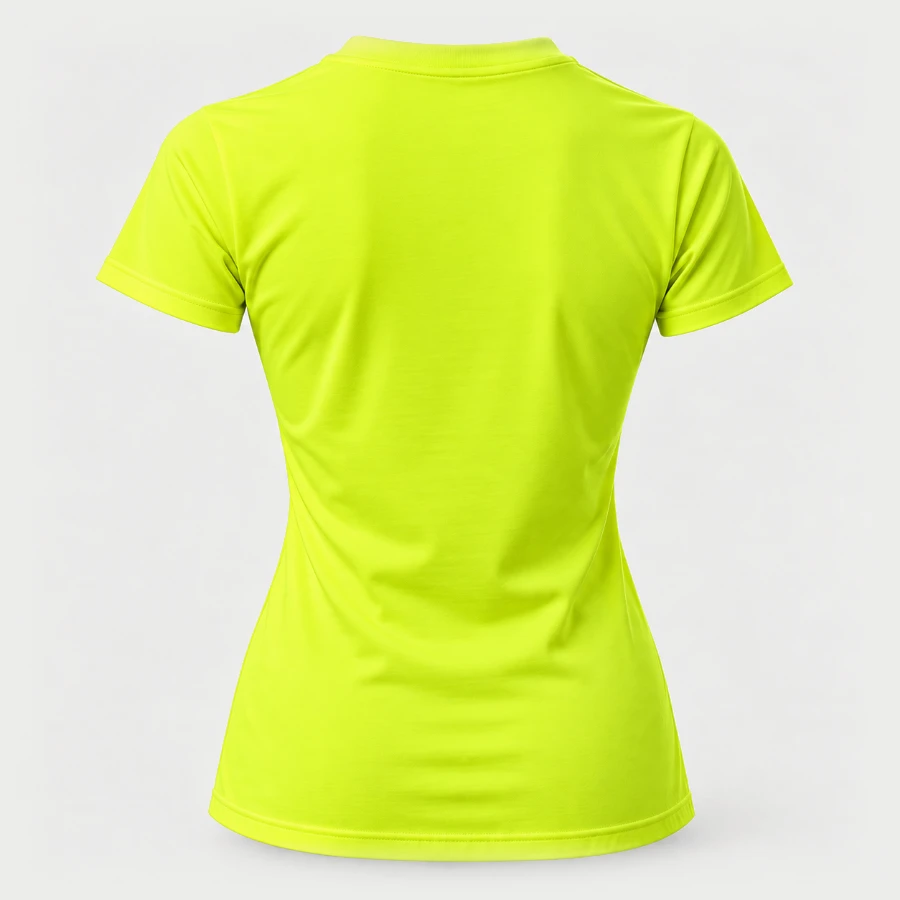
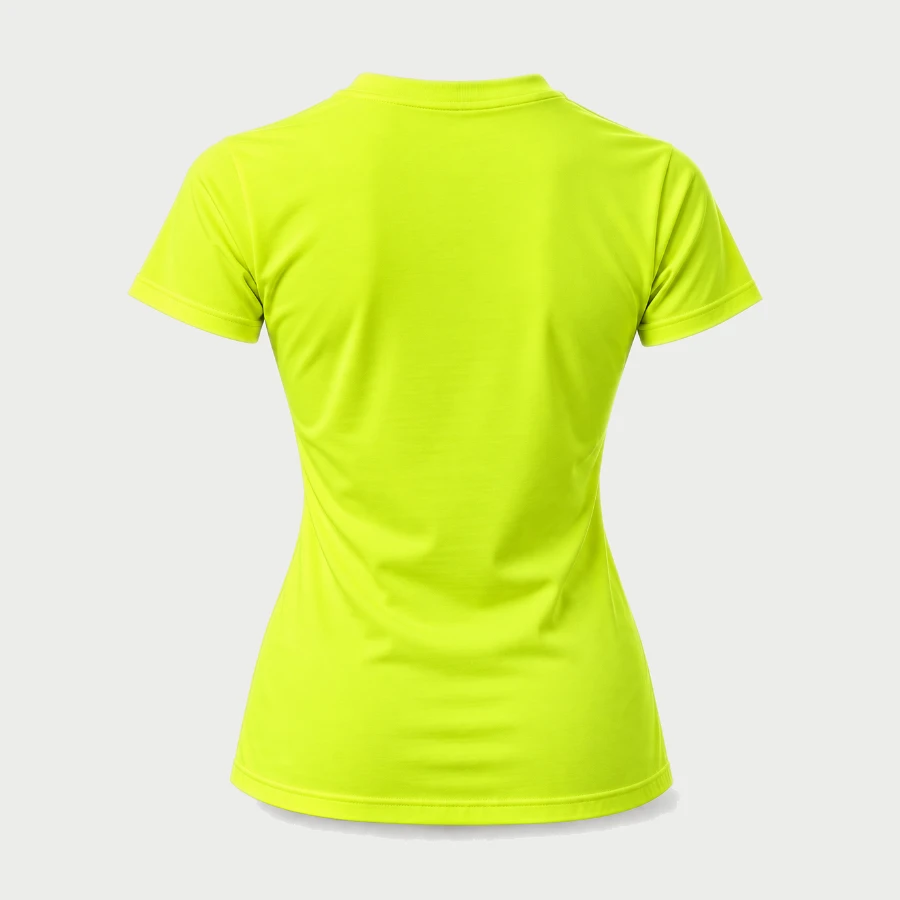
Cut-out product thumbnails, flat t-shirt backdrops, darker hanger tile
Small thumbnails (home categories, gear page, cart) use transparent
cut-outs of the product photos, so there's no grey box on white cards.
T-shirt photos get the same flat backdrop as the other items. The hanger
t-shirt tile on the home page is a darker grey.

Claude-Session: https://claude.ai/code/session_019xa6L3VDLUS6Spv4RoBBK9

Changed region(s): [[0.0933, 0.0311, 0.9022, 0.9644], [0.4667, 0.8089, 0.56, 0.84], [0.5911, 0.3422, 0.6222, 0.4044]]

diff --git a/components/ProductArt.tsx b/components/ProductArt.tsx
@@ -249,12 +249,12 @@ const photo = (
 // Product-only photos (no people). Items without one fall back to the drawing.
 const PHOTOS: Record<string, Photo | Photo[]> = {
   // T-shirts, on the light grey studio background of the photos
-  'tee:#1b1b1b': [photo('t-tee-black-m', 900, 900, 450, 300, 400, 300)],
-  'tee:#f4f4f0': [photo('t-tee-white-m', 900, 900, 450, 300, 400, 300)],
-  'tee:#e8f525': [photo('t-tee-yellow-m', 900, 900, 450, 300, 400, 300)],
-  'tee:#1b1b1b:w': [photo('t-tee-black-w', 900, 900, 450, 300, 320, 280)],
-  'tee:#f4f4f0:w': [photo('t-tee-white-w', 900, 900, 450, 300, 320, 280)],
-  'tee:#e8f525:w': [photo('t-tee-yellow-w', 900, 900, 450, 300, 320, 280)],
+  'tee:#1b1b1b': [photo('t-tee-black-m', 900, 900, 450, 313, 364, 273)],
+  'tee:#f4f4f0': [photo('t-tee-white-m', 900, 900, 450, 313, 364, 273)],
+  'tee:#e8f525': [photo('t-tee-yellow-m', 900, 900, 450, 313, 364, 273)],
+  'tee:#1b1b1b:w': [photo('t-tee-black-w', 900, 900, 450, 313, 292, 255)],
+  'tee:#f4f4f0:w': [photo('t-tee-white-w', 900, 900, 450, 313, 292, 255)],
+  'tee:#e8f525:w': [photo('t-tee-yellow-w', 900, 900, 450, 313, 292, 255)],
   'tank:#1b1b1b': [photo('t-tank-black-m', 900, 900, 450, 341, 320, 255)],
   'tank:#f4f4f0': [photo('t-tank-white-m', 900, 900, 450, 341, 320, 255)],
   'tank:#e8f525': [photo('t-tank-yellow-m', 900, 900, 450, 341, 320, 255)],
@@ -433,12 +433,14 @@ function PhotoArt({
   ink,
   sign,
   className,
+  cutout,
 }: {
   photo: Photo
   slogan: string
   ink: string
   sign?: SignKind
   className?: string
+  cutout?: boolean
 }) {
   const signR = Math.round(photo.width * 0.22)
   const signH = sign ? signR * 2.3 : 0
@@ -458,7 +460,11 @@ function PhotoArt({
 
   return (
     <svg viewBox={viewBox(photo)} role="img" aria-label={slogan} className={className}>
-      <image href={photo.src} width={photo.w} height={photo.h} />
+      <image
+        href={cutout ? photo.src.replace('.webp', '-cut.webp') : photo.src}
+        width={photo.w}
+        height={photo.h}
+      />
       {sign && <Sign kind={sign} cx={photo.cx} cy={blockTop + signR} r={signR} />}
       <text textAnchor="middle" fill={ink} fontFamily={FONT} fontWeight={800} fontSize={size}>
         {lines.map((l, i) => (
@@ -480,6 +486,7 @@ function Art_({
   className,
   drawing = false,
   fit,
+  cutout = false,
 }: {
   art: Art
   slogan: string
@@ -489,6 +496,7 @@ function Art_({
   className?: string
   drawing?: boolean // force the flat drawing even when a photo exists
   fit?: Fit // 'women' shows the women's photo
+  cutout?: boolean // photo without its backdrop, for small thumbnails on white
 }) {
   const pic = !drawing && sign !== 'set' ? photoFor(art, color, slogan, fit) : undefined
   if (pic) {
@@ -499,6 +507,7 @@ function Art_({
         ink={ink}
         sign={sign && sign !== 'set' ? sign : undefined}
         className={className}
+        cutout={cutout}
       />
     )
   }

diff --git a/app/page.tsx b/app/page.tsx
@@ -215,6 +215,7 @@ export default async function Home() {
                   ink={t.ink ?? '#111111'}
                   sign={t.sign}
                   fit={t.fit}
+                  cutout
                   className="size-20 shrink-0 sm:size-28"
                 />
               </Link>
@@ -238,6 +239,7 @@ export default async function Home() {
               color="#1b1b1b"
               ink="#e8f525"
               fit="women"
+              cutout
               className="size-20 shrink-0 sm:size-28"
             />
           </Link>

diff --git a/app/shop/page.tsx b/app/shop/page.tsx
@@ -31,6 +31,7 @@ export default function ShopPage() {
                 slogan="Your message here"
                 color={g.colors[0].hex}
                 ink={g.colors[0].ink}
+                cutout
                 className="mx-auto aspect-square w-full max-w-56"
               />
             </div>

diff --git a/components/CartView.tsx b/components/CartView.tsx
@@ -45,6 +45,7 @@ export default function CartView() {
               ink={item.color.ink}
               sign={item.sign}
               fit={item.fit}
+              cutout
               className="size-20 shrink-0"
             />
             <div className="min-w-0 flex-1">
